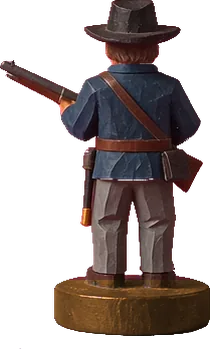
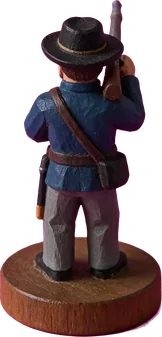
Cowboys drawn from all 8 sides in attack poses, never mirrored
Each Cowboys piece has a true picture for every 45 degree direction, made with a
labelled dummy (3D blocks: red right arm, blue left arm) as the orientation and
pose guide, and each view checked against it. Nothing switches hands. Other
armies keep their 5-view pictures until redone the same way.

diff --git a/src/ui/sprites.ts b/src/ui/sprites.ts
@@ -1,6 +1,6 @@
 // Generated by the piece-art extract script: every piece picture and its size in pixels.
 // Pictures live in public/pieces/<army>/<piece>-<front|fdiag|side|bdiag|back>.webp; turned views (fdiag, side, bdiag) face left.
-export const SPRITES: Record<string, Record<string, Partial<Record<'front' | 'fdiag' | 'side' | 'bdiag' | 'back', [number, number]>>>> = {"frontier":{"king":{"front":[146,330],"fdiag":[149,329],"side":[153,329],"back":[152,330],"bdiag":[152,330]},"lightInfantry":{"front":[203,332],"fdiag":[193,332],"side":[154,346],"bdiag":[200,332],"back":[211,346]},"gunslinger":{"front":[157,340],"fdiag":[153,340],"side":[153,340],"bdiag":[160,340],"back":[159,340]},"rifleman":{"front":[196,337],"fdiag":[189,337],"side":[206,337],"back":[210,349],"bdiag":[199,337]},"cowboy":{"front":[213,447],"fdiag":[259,446],"side":[353,452],"back":[207,448],"bdiag":[246,447]},"heavyCavalry":{"front":[179,456],"fdiag":[227,451],"side":[374,447],"back":[174,457],"bdiag":[232,456]}},"novgorod":{"king":{"front":[203,319],"fdiag":[165,318],"side":[164,319],"back":[195,318],"bdiag":[178,319]},"lightInfantry":{"front":[193,339],"fdiag":[187,340],"side":[188,308],"back":[190,336],"bdiag":[161,339]},"heavyInfantry":{"front":[225,302],"fdiag":[205,302],"side":[211,303],"bdiag":[193,303],"back":[198,302]},"archer":{"front":[144,317],"fdiag":[154,316],"side":[160,315],"bdiag":[164,316],"back":[145,316]},"lightCavalry":{"front":[144,436],"fdiag":[229,424],"side":[309,377],"back":[141,433],"bdiag":[210,436]},"heavyCavalry":{"front":[143,422],"fdiag":[224,440],"side":[323,422],"back":[133,401],"bdiag":[195,422]}},"teutonic":{"king":{"front":[166,327],"side":[166,327],"back":[157,326],"fdiag":[153,327],"bdiag":[156,327]},"lightInfantry":{"front":[142,340],"side":[140,340],"back":[145,287],"fdiag":[145,340],"bdiag":[143,340]},"heavyInfantry":{"front":[167,309],"side":[168,309],"back":[175,309],"fdiag":[141,309],"bdiag":[157,309]},"archer":{"front":[178,327],"side":[140,326],"back":[171,326],"fdiag":[176,324],"bdiag":[165,324]},"lightCavalry":{"front":[142,439],"fdiag":[233,439],"side":[298,440],"bdiag":[228,435],"back":[149,440]},"heavyCavalry":{"front":[142,442],"fdiag":[226,446],"side":[297,452],"bdiag":[222,434],"back":[160,446]}},"mongols":{"king":{"front":[165,373],"fdiag":[167,371],"side":[161,370],"bdiag":[160,371],"back":[160,371]},"lightInfantry":{"front":[150,402],"fdiag":[161,400],"side":[160,401],"bdiag":[159,399],"back":[157,399]},"archer":{"front":[177,356],"fdiag":[185,358],"side":[160,356],"bdiag":[186,358],"back":[182,357]},"lightCavalry":{"front":[192,474],"fdiag":[339,470],"side":[383,471],"back":[201,474],"bdiag":[352,474]},"heavyCavalry":{"front":[195,516],"fdiag":[332,512],"side":[447,507],"back":[203,519],"bdiag":[332,516]},"horseArcher":{"front":[261,504],"fdiag":[333,504],"side":[417,504],"bdiag":[517,504],"back":[259,505]}},"japanese":{"king":{"front":[221,466],"fdiag":[233,469],"side":[225,468],"bdiag":[204,461],"back":[211,461]},"ashigaru":{"front":[200,461],"side":[198,457],"back":[203,405],"fdiag":[191,461],"bdiag":[200,461]},"samurai":{"front":[234,487],"fdiag":[234,477],"side":[251,472],"bdiag":[215,486],"back":[244,476]},"archer":{"front":[176,428],"side":[188,426],"back":[178,427],"fdiag":[185,427],"bdiag":[189,427]},"lightCavalry":{"front":[217,638],"fdiag":[312,635],"side":[479,539],"back":[222,637],"bdiag":[353,638]},"heavyCavalry":{"front":[220,614],"fdiag":[310,613],"side":[478,615],"bdiag":[322,614],"back":[216,619]}},"comanche":{"king":{"front":[154,354],"fdiag":[162,353],"side":[156,353],"bdiag":[156,354],"back":[164,355]},"lightInfantry":{"front":[193,361],"fdiag":[181,361],"side":[155,365],"bdiag":[167,361],"back":[176,361]},"archer":{"front":[175,359],"fdiag":[165,359],"side":[158,364],"bdiag":[163,359],"back":[159,359]},"lightCavalry":{"front":[169,495],"fdiag":[283,493],"side":[345,483],"back":[169,491],"bdiag":[252,495]},"horseArcher":{"front":[226,475],"fdiag":[319,468],"side":[393,465],"back":[204,472],"bdiag":[262,475]}}};
+export const SPRITES: Record<string, Record<string, Partial<Record<string, [number, number]>>>> = {"frontier":{"king":{"front":[157,330],"fdiag":[149,329],"side":[153,329],"back":[164,330],"bdiag":[152,330],"front-right":[209,330],"right":[294,330],"back-right":[284,330],"back-left":[216,330],"left":[315,330],"front-left":[287,330]},"lightInfantry":{"front":[155,332],"fdiag":[193,332],"side":[154,346],"bdiag":[200,332],"back":[155,332],"front-right":[266,332],"right":[252,332],"back-right":[206,332],"back-left":[244,332],"left":[241,332],"front-left":[201,332]},"gunslinger":{"front":[161,340],"fdiag":[153,340],"side":[153,340],"bdiag":[160,340],"back":[180,340],"front-right":[246,340],"right":[302,340],"back-right":[230,340],"back-left":[201,340],"left":[313,340],"front-left":[259,340]},"rifleman":{"front":[175,337],"fdiag":[189,337],"side":[206,337],"back":[162,337],"bdiag":[199,337],"front-right":[288,337],"right":[329,337],"back-right":[269,337],"back-left":[224,337],"left":[314,337],"front-left":[269,337]},"cowboy":{"front":[200,447],"fdiag":[259,446],"side":[353,452],"back":[181,447],"bdiag":[246,447],"front-right":[269,447],"right":[329,447],"back-right":[250,447],"back-left":[233,447],"left":[322,447],"front-left":[272,447]},"heavyCavalry":{"front":[168,456],"fdiag":[227,451],"side":[374,447],"back":[172,456],"bdiag":[232,456],"front-right":[395,456],"right":[399,456],"back-right":[393,456],"back-left":[250,456],"left":[432,456],"front-left":[365,456]}},"novgorod":{"king":{"front":[203,319],"fdiag":[165,318],"side":[164,319],"back":[195,318],"bdiag":[178,319]},"lightInfantry":{"front":[193,339],"fdiag":[187,340],"side":[188,308],"back":[190,336],"bdiag":[161,339]},"heavyInfantry":{"front":[225,302],"fdiag":[205,302],"side":[211,303],"bdiag":[193,303],"back":[198,302]},"archer":{"front":[144,317],"fdiag":[154,316],"side":[160,315],"bdiag":[164,316],"back":[145,316]},"lightCavalry":{"front":[144,436],"fdiag":[229,424],"side":[309,377],"back":[141,433],"bdiag":[210,436]},"heavyCavalry":{"front":[143,422],"fdiag":[224,440],"side":[323,422],"back":[133,401],"bdiag":[195,422]}},"teutonic":{"king":{"front":[166,327],"side":[166,327],"back":[157,326],"fdiag":[153,327],"bdiag":[156,327]},"lightInfantry":{"front":[142,340],"side":[140,340],"back":[145,287],"fdiag":[145,340],"bdiag":[143,340]},"heavyInfantry":{"front":[167,309],"side":[168,309],"back":[175,309],"fdiag":[141,309],"bdiag":[157,309]},"archer":{"front":[178,327],"side":[140,326],"back":[171,326],"fdiag":[176,324],"bdiag":[165,324]},"lightCavalry":{"front":[142,439],"fdiag":[233,439],"side":[298,440],"bdiag":[228,435],"back":[149,440]},"heavyCavalry":{"front":[142,442],"fdiag":[226,446],"side":[297,452],"bdiag":[222,434],"back":[160,446]}},"mongols":{"king":{"front":[165,373],"fdiag":[167,371],"side":[161,370],"bdiag":[160,371],"back":[160,371]},"lightInfantry":{"front":[150,402],"fdiag":[161,400],"side":[160,401],"bdiag":[159,399],"back":[157,399]},"archer":{"front":[177,356],"fdiag":[185,358],"side":[160,356],"bdiag":[186,358],"back":[182,357]},"lightCavalry":{"front":[192,474],"fdiag":[339,470],"side":[383,471],"back":[201,474],"bdiag":[352,474]},"heavyCavalry":{"front":[195,516],"fdiag":[332,512],"side":[447,507],"back":[203,519],"bdiag":[332,516]},"horseArcher":{"front":[261,504],"fdiag":[333,504],"side":[417,504],"bdiag":[517,504],"back":[259,505]}},"japanese":{"king":{"front":[221,466],"fdiag":[233,469],"side":[225,468],"bdiag":[204,461],"back":[211,461]},"ashigaru":{"front":[200,461],"side":[198,457],"back":[203,405],"fdiag":[191,461],"bdiag":[200,461]},"samurai":{"front":[234,487],"fdiag":[234,477],"side":[251,472],"bdiag":[215,486],"back":[244,476]},"archer":{"front":[176,428],"side":[188,426],"back":[178,427],"fdiag":[185,427],"bdiag":[189,427]},"lightCavalry":{"front":[217,638],"fdiag":[312,635],"side":[479,539],"back":[222,637],"bdiag":[353,638]},"heavyCavalry":{"front":[220,614],"fdiag":[310,613],"side":[478,615],"bdiag":[322,614],"back":[216,619]}},"comanche":{"king":{"front":[154,354],"fdiag":[162,353],"side":[156,353],"bdiag":[156,354],"back":[164,355]},"lightInfantry":{"front":[193,361],"fdiag":[181,361],"side":[155,365],"bdiag":[167,361],"back":[176,361]},"archer":{"front":[175,359],"fdiag":[165,359],"side":[158,364],"bdiag":[163,359],"back":[159,359]},"lightCavalry":{"front":[169,495],"fdiag":[283,493],"side":[345,483],"back":[169,491],"bdiag":[252,495]},"horseArcher":{"front":[226,475],"fdiag":[319,468],"side":[393,465],"back":[204,472],"bdiag":[262,475]}}};
 
 /** Changes whenever any picture changes, so phones fetch the new ones instead of a cached copy. */
-export const ART_VERSION = '6def3ee0';
+export const ART_VERSION = '8ea600d9';

diff --git a/src/ui/board.ts b/src/ui/board.ts
@@ -256,7 +256,7 @@ const RAYS = Array.from({ length: 8 }, (_, i) => {
  *  whether we see it from the front, a front diagonal, the side, a back diagonal or the back, in
  *  45° steps. Turned views are drawn facing left and mirrored when the piece faces right. */
 type ViewId = 'front' | 'fdiag' | 'side' | 'bdiag' | 'back';
-interface Look { view: ViewId; flip: boolean }
+interface Look { view: ViewId; flip: boolean; /** The true 8-way direction, for pieces drawn from all 8 sides. */ dir: string }
 const VIEWS: ViewId[] = ['front', 'fdiag', 'side', 'bdiag', 'back'];
 
 function lookFor(owner: Player, v: View, L: Lens, s: GameState): Look {
@@ -275,7 +275,10 @@ function lookFor(owner: Player, v: View, L: Lens, s: GameState): Look {
   const rx = bx - ax;
   const ry = (by - ay) / Math.max(0.2, Math.cos(tiltAngle(v))); // down the screen = towards the viewer
   const turn = Math.atan2(Math.abs(rx), ry); // 0 = facing us, π = facing away
-  return { view: VIEWS[Math.round(turn / (Math.PI / 4))], flip: rx > 0 };
+  const n = Math.round(turn / (Math.PI / 4)); // 0 front, 1 front diagonal, 2 side, 3 back diagonal, 4 back
+  const side = rx > 0 ? 'right' : 'left';
+  const dir = ['front', `front-${side}`, side, `back-${side}`, 'back'][n];
+  return { view: VIEWS[n], flip: rx > 0, dir };
 }
 
 /** Which straight views of an aiming piece show it shooting sideways (see figure()). */
@@ -295,6 +298,16 @@ function figure(type: UnitTypeId, owner: Player, hp: number, k: number, look: Lo
   if (!set) return null;
   // Pieces that shoot forward can't be drawn aiming straight at (or away from) the camera, so head-on they
   // show their diagonal instead, where the weapon clearly points the way they face.
+  // Pieces drawn from all 8 sides: the true picture, never mirrored, so nothing switches hands.
+  const true8 = set[look.dir];
+  if (true8) {
+    const [w8, h8] = [true8[0] * ART_SCALE * k, true8[1] * ART_SCALE * k];
+    const full8 = maxHp(type);
+    const bar8 = hp > 0 && hp < full8 ? `<g transform="translate(0 ${(7 * k).toFixed(1)}) scale(${(0.7 * k).toFixed(3)}) translate(0 -16)">${healthBar(hp, full8)}</g>` : '';
+    return `<ellipse cx="0" cy="${k.toFixed(1)}" rx="${(16 * k).toFixed(1)}" ry="${(5 * k).toFixed(1)}" fill="#000" opacity=".3"/>
+    <ellipse cx="0" cy="${k.toFixed(1)}" rx="${(17 * k).toFixed(1)}" ry="${(5.6 * k).toFixed(1)}" fill="none" stroke="${armyColor(owner)}" stroke-width="${(2 * k).toFixed(1)}" opacity=".9"/>
+    <image decoding="sync" href="${SPRITE_URL(fac, type, look.dir)}" x="${(-w8 / 2).toFixed(1)}" y="${(-h8 + 4 * k).toFixed(1)}" width="${w8.toFixed(1)}" height="${h8.toFixed(1)}"/>${bar8}`;
+  }
   const wanted: ViewId = AIMS_FORWARD[`${fac}/${type}`]?.includes(look.view) ? (look.view === 'front' ? 'fdiag' : set.bdiag ? 'bdiag' : 'side') : look.view;
   // A missing diagonal falls back to the straight view on the same side (front or back).
   const view: ViewId = set[wanted] ? wanted : wanted === 'fdiag' ? 'front' : wanted === 'bdiag' ? 'back' : 'side';
